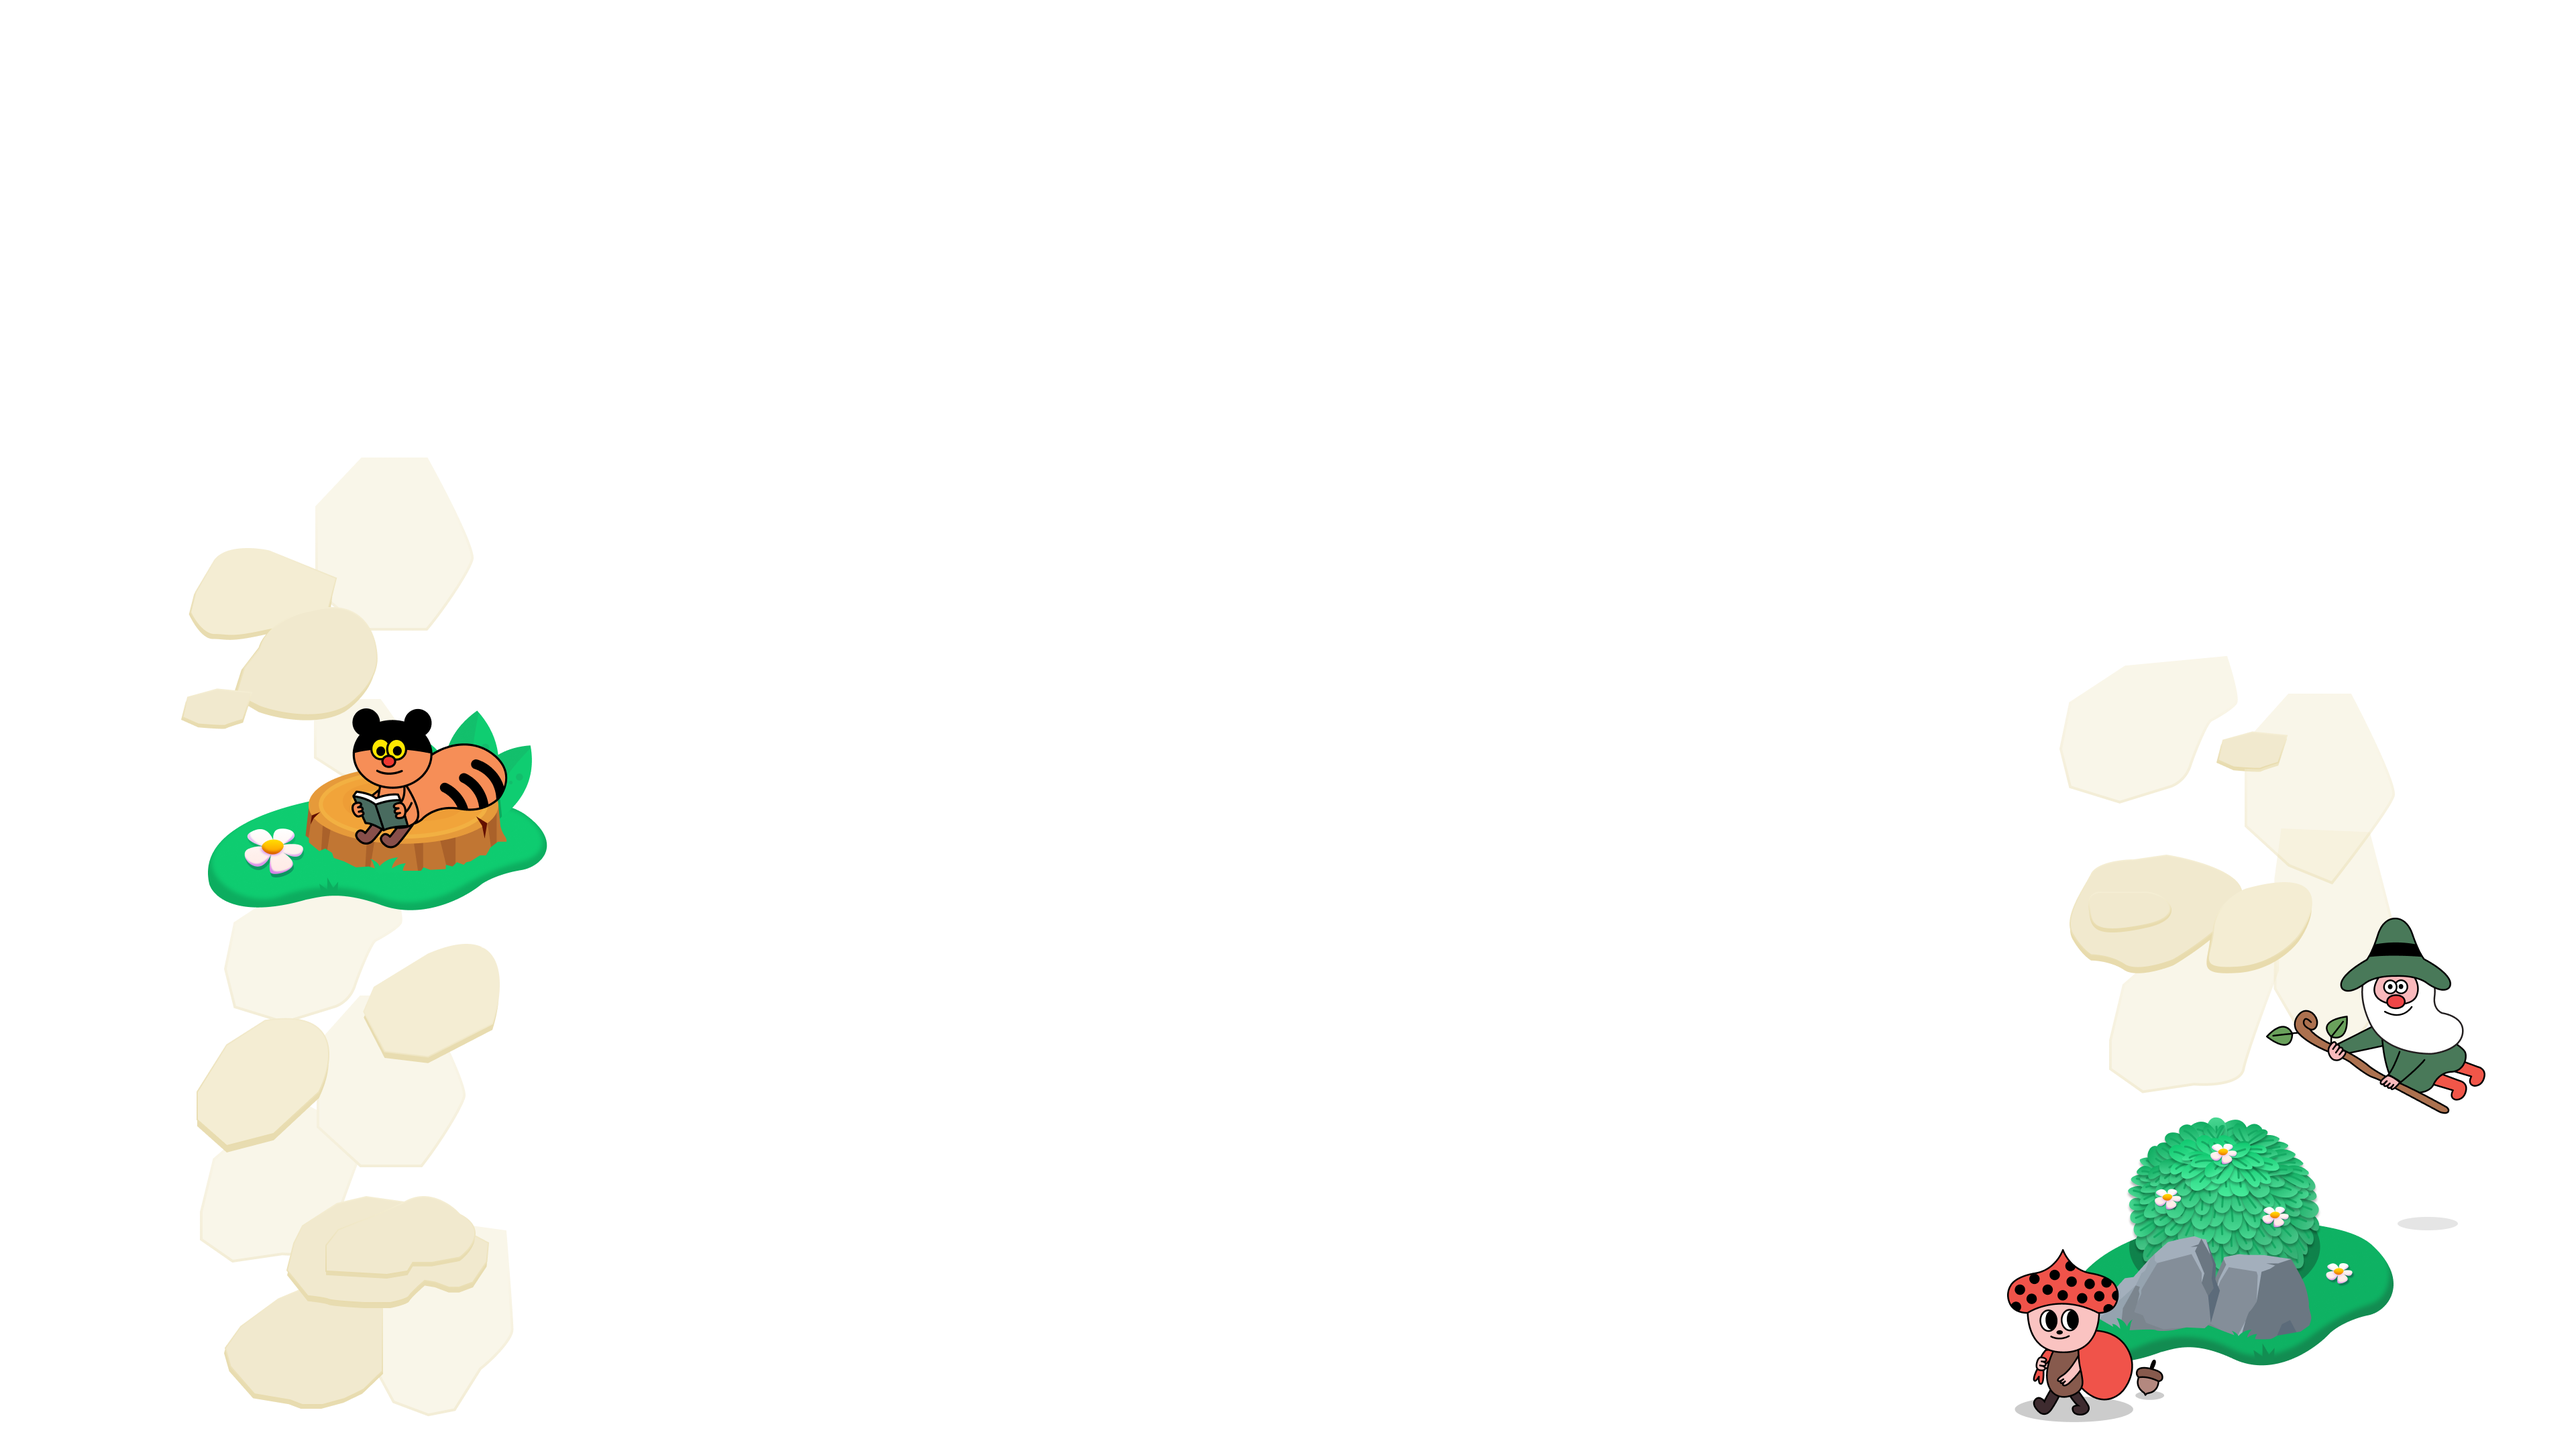
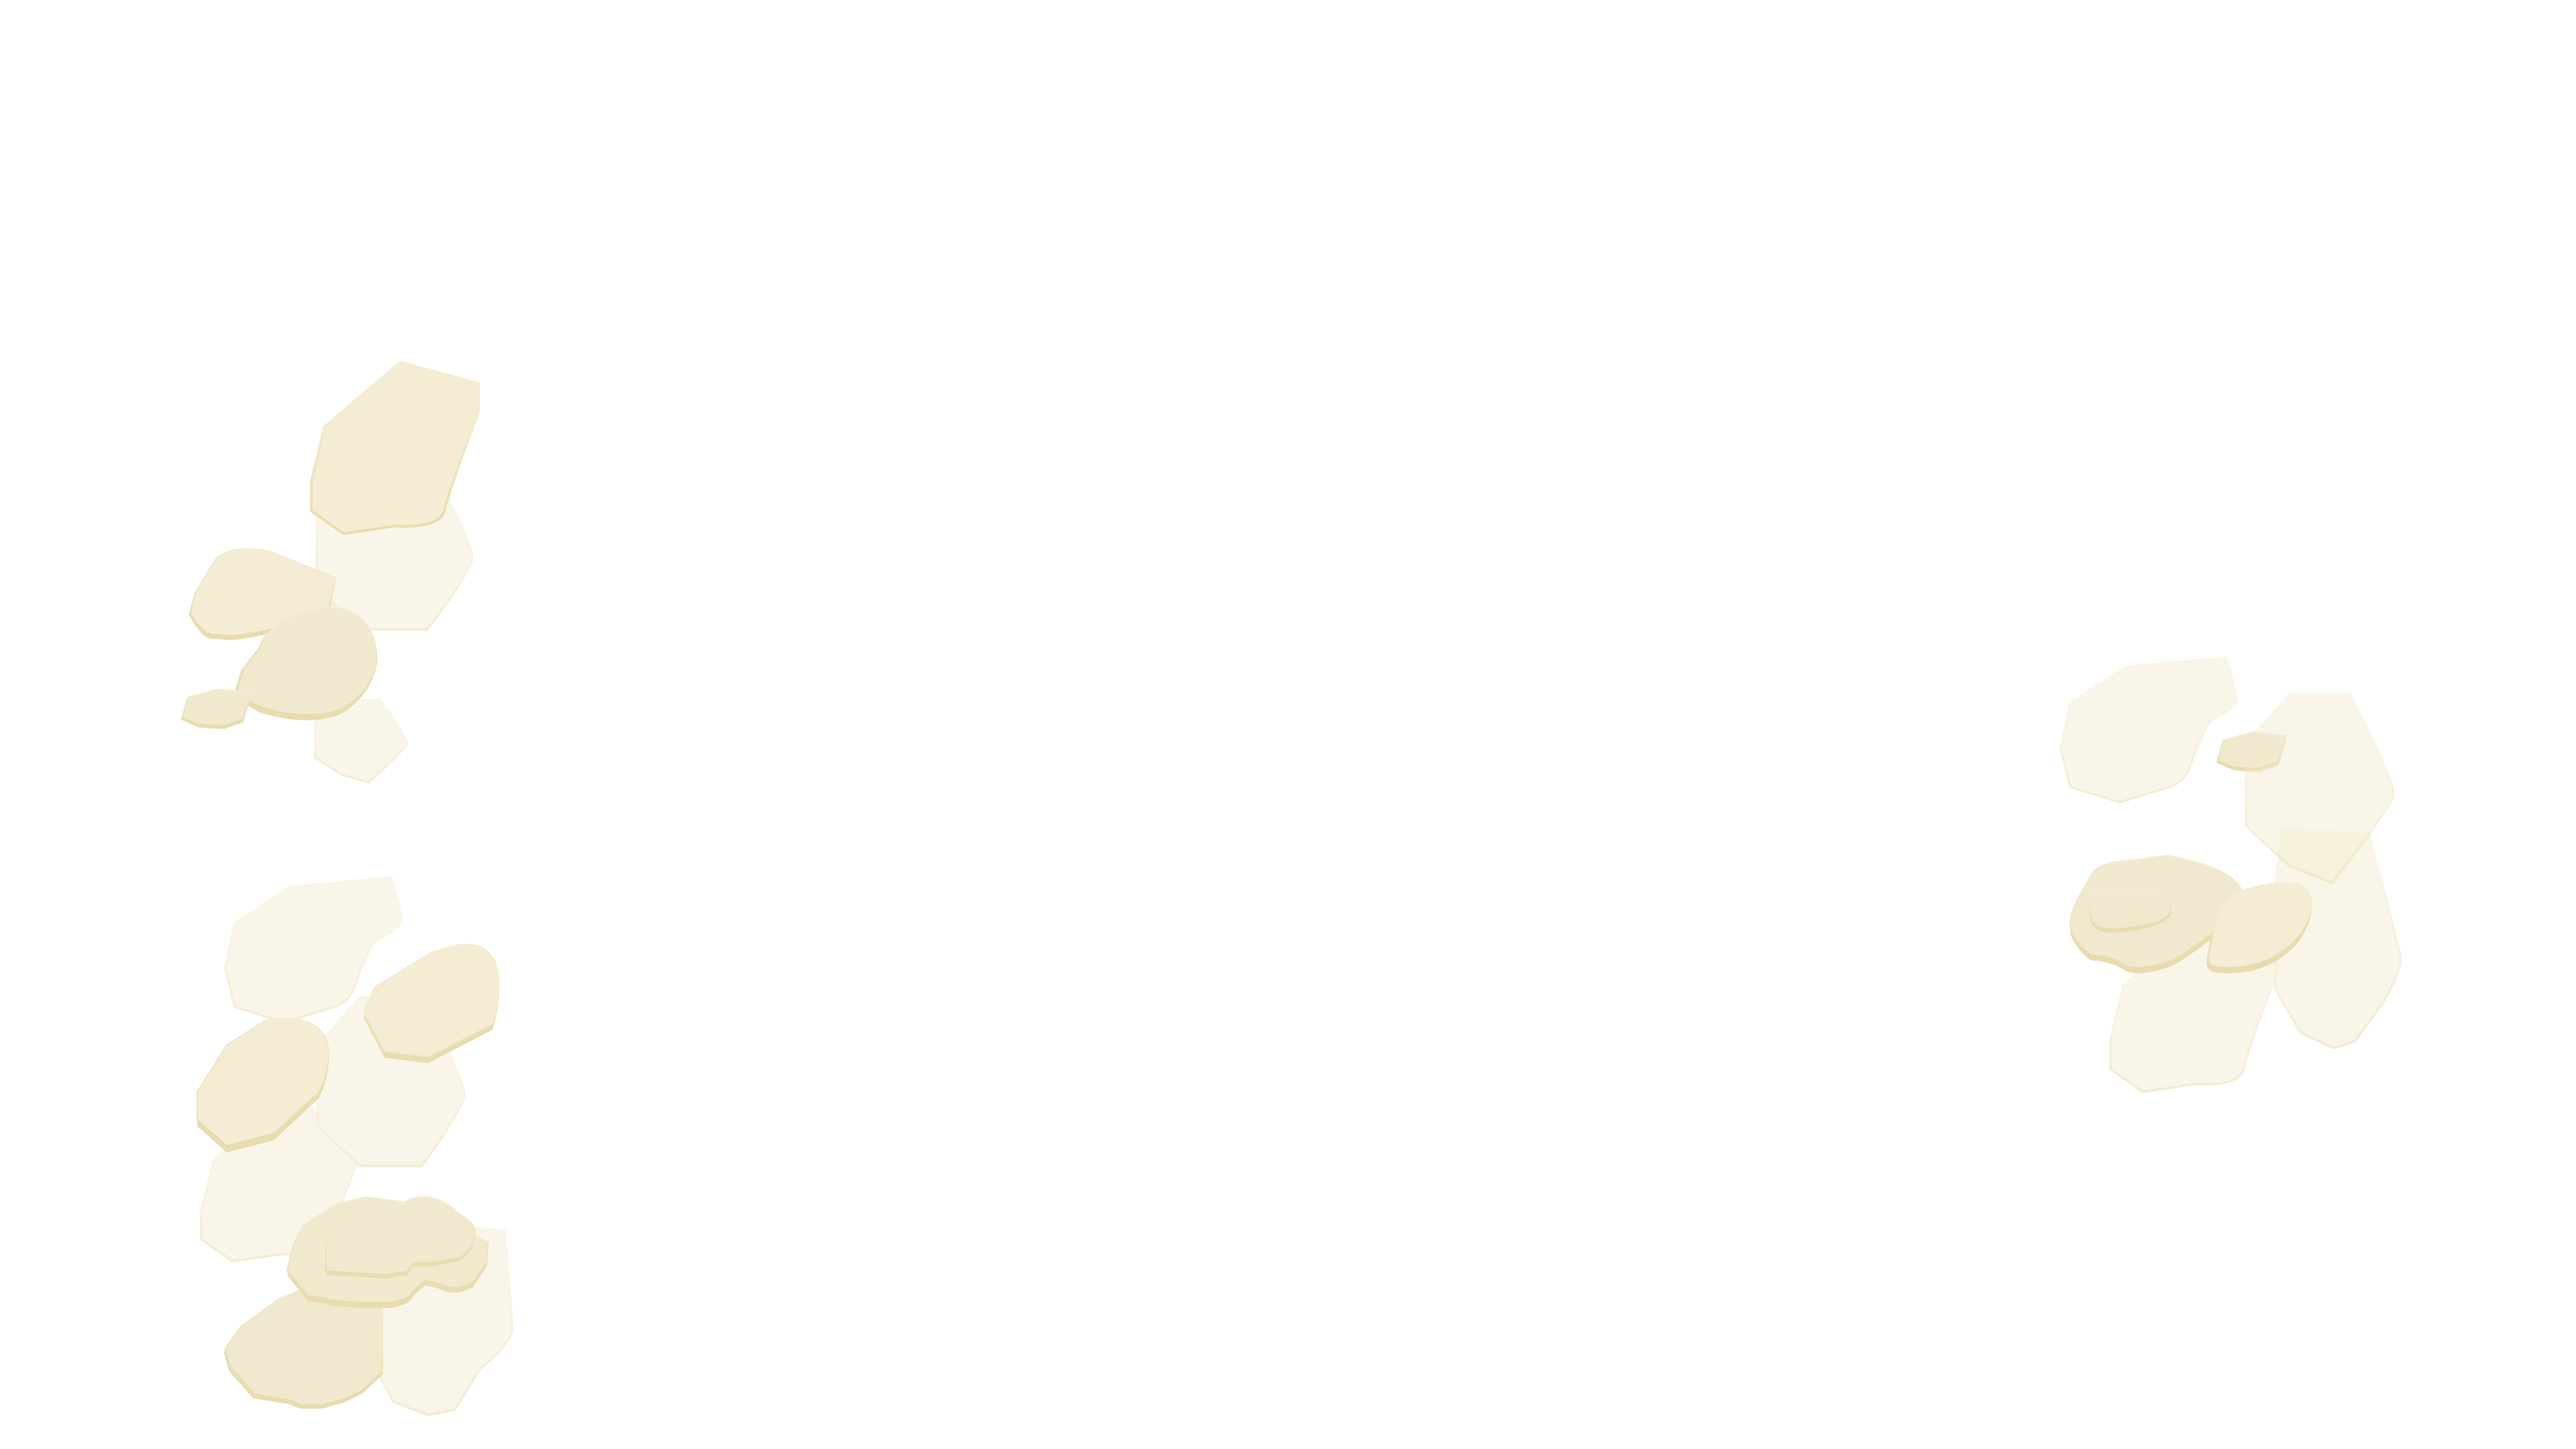
2025-02-10 (9:00)

diff --git a/src/app/_ui/StyledCommon.tsx b/src/app/_ui/StyledCommon.tsx
@@ -6,19 +6,43 @@ export const PageBodyBox = styled.div`
   min-height: calc(100vh - 80px);
   background-image: url('/src/images/@common/bg-flower.svg'),
     url('/src/images/@common/bg-glass.svg'),
+    url('/src/images/@common/bg-item-reading-unit01.png'),
+    url('/src/images/@common/bg-item-reading-unit02.png'),
+    url('/src/images/@common/bg-item-reading-unit03.png'),
     url('/src/images/@common/bg-stump.png');
   background-size:
     auto 130px,
     auto 900px,
+    220px auto,
+    220px auto,
+    160px auto,
     1800px auto;
   background-position:
-    top 100px center,
-    top -530px center,
-    top 30px center;
-  background-repeat: no-repeat, repeat-x, repeat-y;
-  background-attachment: fixed, fixed, fixed;
+    top 20px center,
+    top -620px center,
+    left 5% top 300px,
+    right 1.5% bottom 20px,
+    right 2.5% bottom 50vh,
+    top 50px center;
+  background-repeat: no-repeat, repeat-x, no-repeat, no-repeat, no-repeat,
+    repeat-y;
+  background-attachment: scroll;
   background-color: rgb(244, 237, 211);
-  @media (pointer: coarse) {
+  @media screen and (max-width: 1280px) {
+    background-image: url('/src/images/@common/bg-flower.svg'),
+      url('/src/images/@common/bg-glass.svg'),
+      url('/src/images/@common/bg-stump.png');
+    background-size:
+      auto 130px,
+      auto 900px,
+      1400px auto;
+    background-position:
+      top center,
+      top -620px center,
+      top 30px center;
+    background-repeat: no-repeat, repeat-x, repeat-y;
+  }
+  /* @media (pointer: coarse) {
     background-image: url('/src/images/@common/bg-flower.svg'),
       url('/src/images/@common/bg-glass.svg');
     background-size:
@@ -29,7 +53,7 @@ export const PageBodyBox = styled.div`
       top -530px center;
     background-repeat: no-repeat, repeat-x;
     background-attachment: fixed, fixed;
-  }
+  } */
 `
 
 export const PageContainerBox = styled.div<{ $compact?: boolean }>`
@@ -143,6 +167,8 @@ export const ModalBodyBox = styled.div`
   padding: 20px;
   padding-top: 0;
   min-height: 450px;
+  max-height: calc(100vh - 200px);
+  overflow-y: auto;
   &.change-dropdown {
     padding: 0;
     min-height: 0;

diff --git a/src/app/globals.scss b/src/app/globals.scss
@@ -132,6 +132,25 @@ body {
   -webkit-tap-highlight-color: transparent;
   // touch-action: none;
   padding-bottom: env(safe-area-inset-bottom);
+  &::before {
+    @media (orientation: portrait) {
+      content: 'Please rotate the screen horizontally.';
+      color: #fff;
+      display: flex;
+      align-items: center;
+      justify-content: center;
+      font-size: 2em;
+      position: fixed;
+      top: 0;
+      left: 0;
+      right: 0;
+      bottom: 0;
+      background-color: rgba($color: #000000, $alpha: 0.5);
+      -webkit-backdrop-filter: blur(10px);
+      backdrop-filter: blur(10px);
+      z-index: 9999;
+    }
+  }
   @media (prefers-color-scheme: no-preference) {
     background-image: url('/src/images/@home/home_bg_dark.svg');
     background-repeat: repeat-x;
@@ -145,7 +164,7 @@ body {
       }
     }
   }
-  @media (pointer: coarse) {
+  @media screen and (max-width: 1280px) {
     min-width: 320px;
     min-height: -webkit-fill-available;
     height: fit-content;

diff --git a/src/app/_ui/StyledAccount.tsx b/src/app/_ui/StyledAccount.tsx
@@ -32,6 +32,7 @@ export const LoginBodyBox = styled.div`
   .sign-in {
     width: 500px;
     height: 370px;
+    margin-top: 5vh;
     position: absolute;
     top: calc(50% - 180px);
     left: calc(50% - 250px);
@@ -44,6 +45,17 @@ export const LoginBodyBox = styled.div`
     gap: 10px;
     background: url('/src/images/@common/bg-log-in-body.svg') top / contain
       no-repeat;
+    &::before {
+      content: '';
+      position: absolute;
+      left: calc(50% - 240px);
+      right: 0;
+      bottom: calc(100% - 30px);
+      width: 100%;
+      height: 200px;
+      background: url('/src/images/@common/dodo_16_5 1.png') center / auto 180px
+        no-repeat;
+    }
     &::after {
       content: '';
       position: absolute;

diff --git a/src/app/_ui/StyledCourse.tsx b/src/app/_ui/StyledCourse.tsx
@@ -155,7 +155,7 @@ export const CourseItemBox = styled.div`
     display: flex;
     gap: 10px;
     align-items: end;
-    justify-content: space-between;
+    justify-content: end;
     .book-image {
       position: relative;
       .to-do-icon {

diff --git a/src/app/_ui/StyledHeader.tsx b/src/app/_ui/StyledHeader.tsx
@@ -91,7 +91,8 @@ export const NavItemBox = styled.div<{ $icon?: string; $active?: boolean }>`
   }
 `
 export const GFooterBox = styled.div`
-  width: 1128px;
+  width: 100%;
+  max-width: 1128px;
   padding: 50px;
   margin: auto;
   display: flex;

diff --git a/src/app/[locale]/(site)/_header/MyRgModal/MyRg.tsx b/src/app/[locale]/(site)/_header/MyRgModal/MyRg.tsx
@@ -70,6 +70,7 @@ export default function MyRg({
       />
       <BasicButtonBox
         $color="red"
+        style={{ marginBottom: '5px' }}
         onClick={() =>
           setTimeout(() => {
             onMyRgMenuClickListener('logout')

diff --git a/src/app/_ui/StyledLesson.tsx b/src/app/_ui/StyledLesson.tsx
@@ -6,8 +6,8 @@ export const WeeklyBoardBox = styled.div`
   width: 100%;
   margin: auto;
   padding: 0 20px;
-  position: sticky;
-  top: 30px;
+  position: relative;
+  top: 0;
   z-index: 2;
   .header {
     position: absolute;
